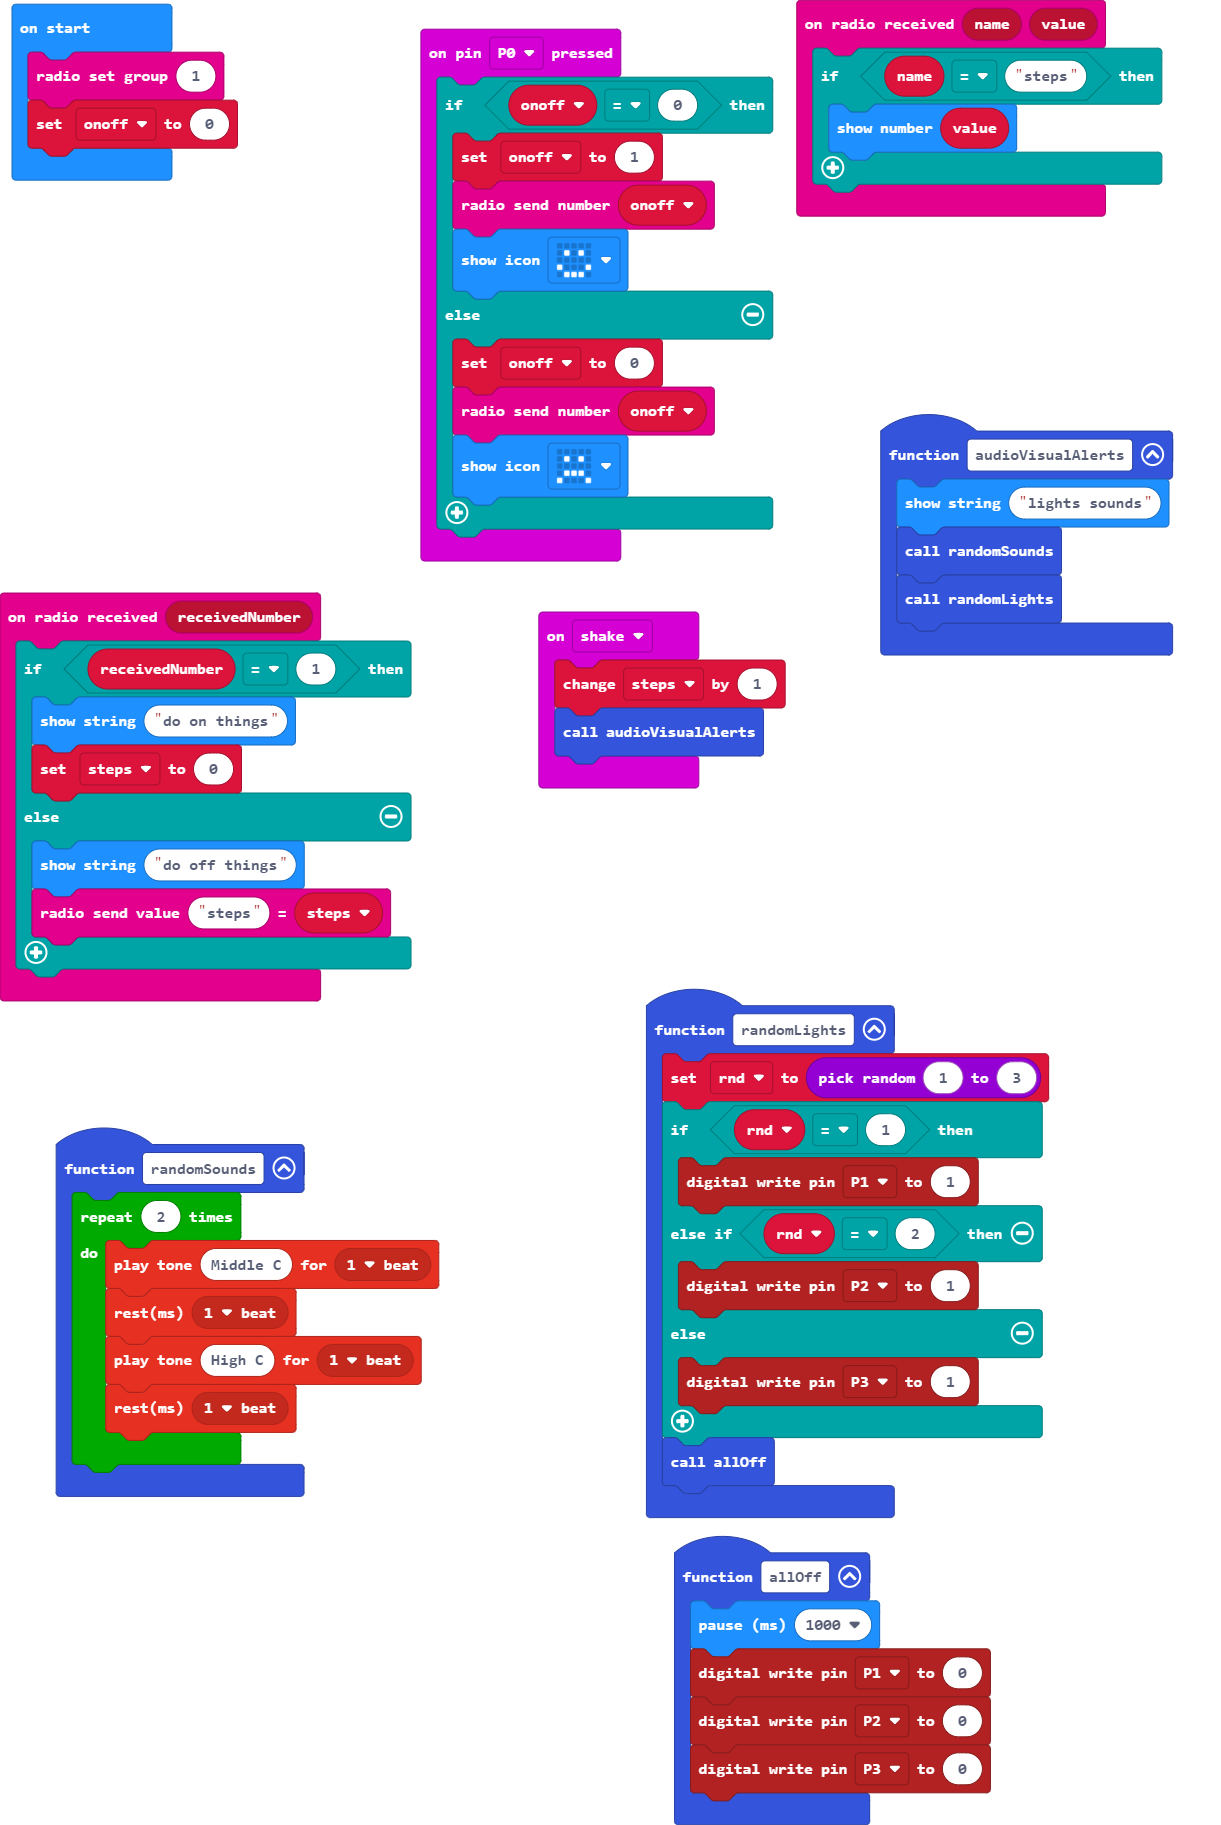
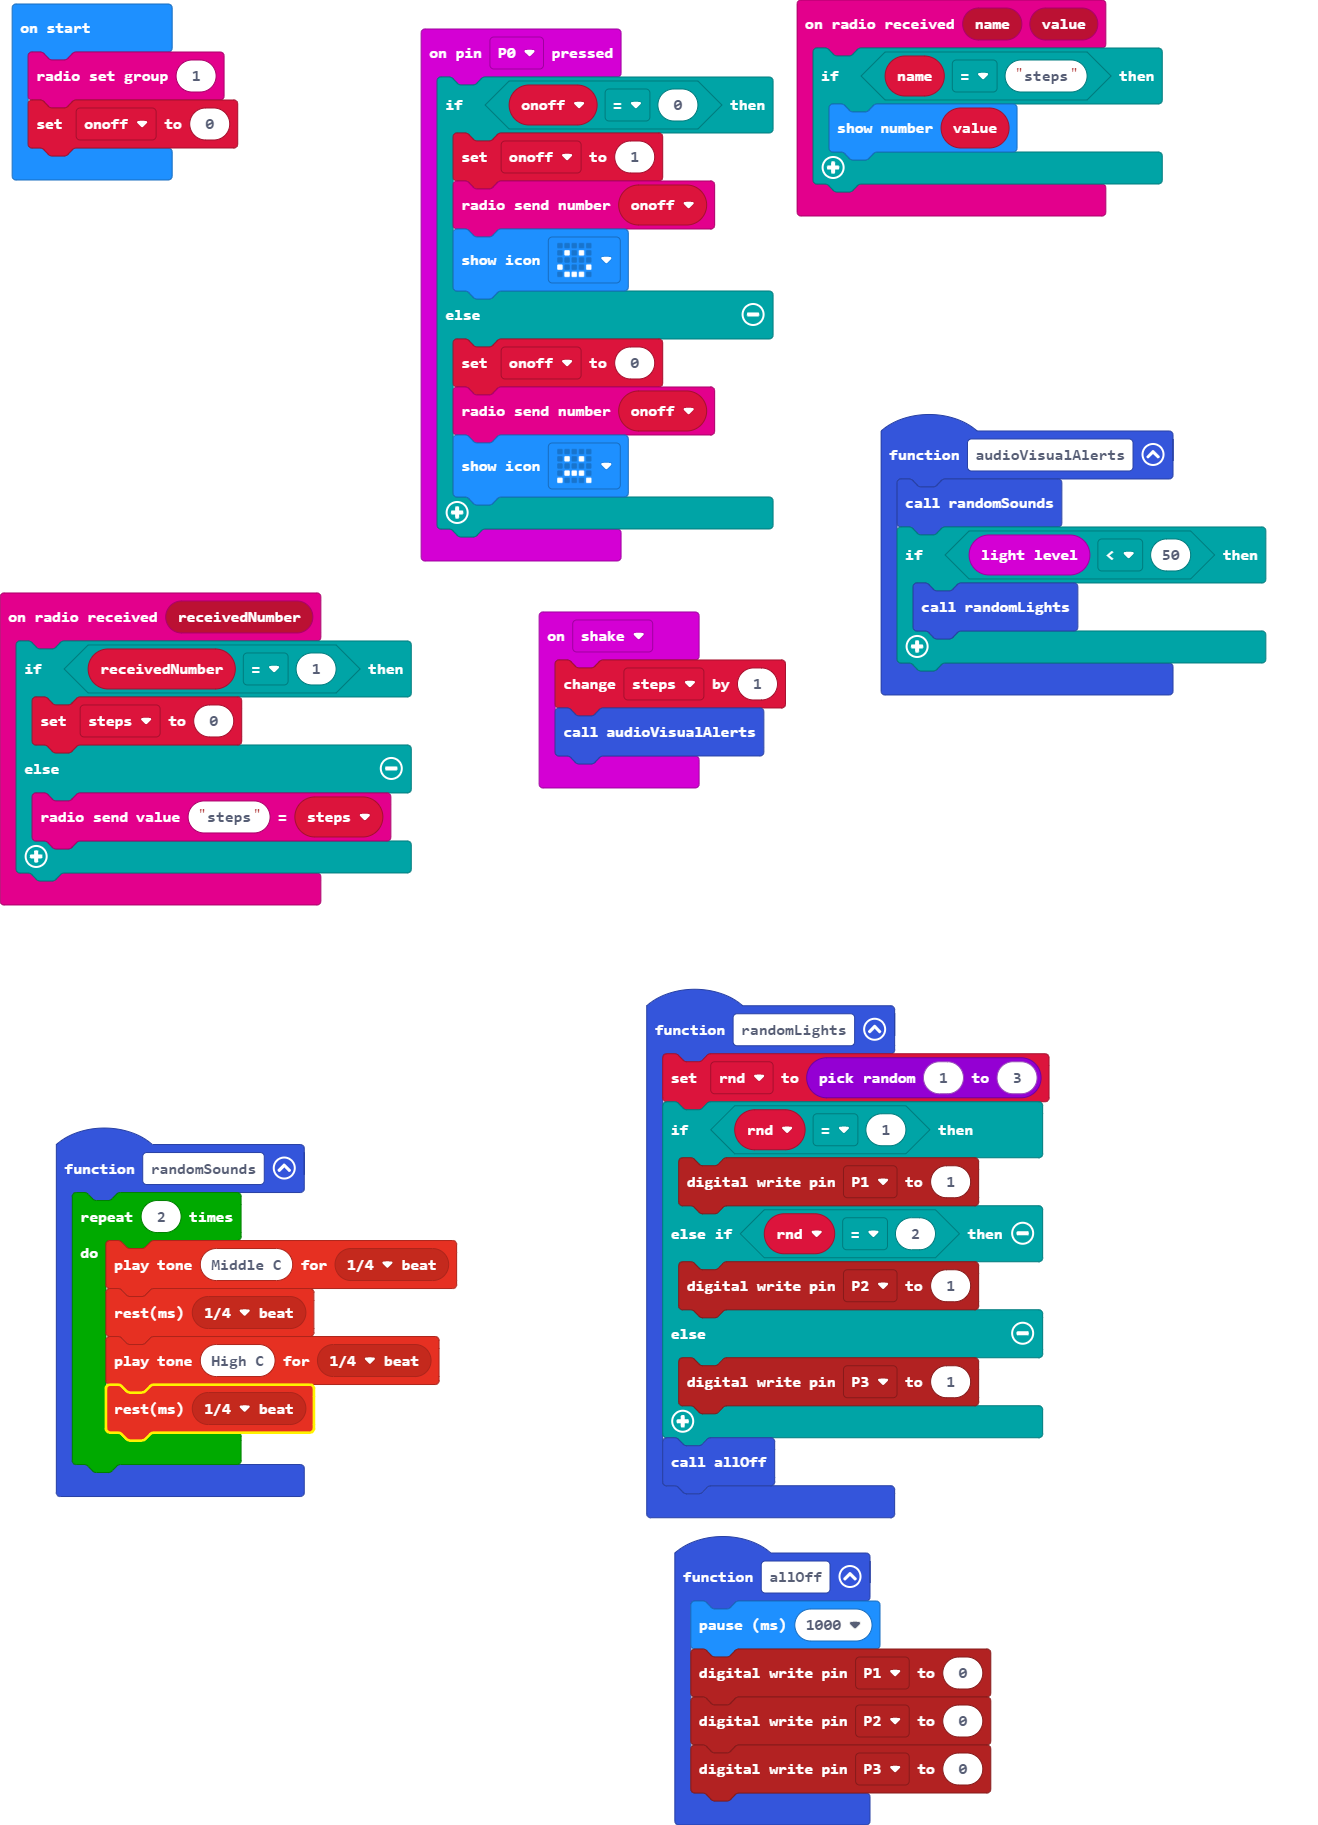
Update main.blocks, main.ts

diff --git a/main.ts b/main.ts
@@ -11,10 +11,8 @@ input.onPinPressed(TouchPin.P0, function () {
 })
 radio.onReceivedNumber(function (receivedNumber) {
     if (receivedNumber == 1) {
-        basic.showString("do on things")
         steps = 0
     } else {
-        basic.showString("do off things")
         radio.sendValue("steps", steps)
     }
 })
@@ -25,9 +23,10 @@ function allOff () {
     pins.digitalWritePin(DigitalPin.P3, 0)
 }
 function audioVisualAlerts () {
-    basic.showString("lights sounds")
     randomSounds()
-    randomLights()
+    if (input.lightLevel() < 50) {
+        randomLights()
+    }
 }
 input.onGesture(Gesture.Shake, function () {
     steps += 1
@@ -51,10 +50,10 @@ function randomLights () {
 }
 function randomSounds () {
     for (let index = 0; index < 2; index++) {
-        music.playTone(262, music.beat(BeatFraction.Whole))
-        music.rest(music.beat(BeatFraction.Whole))
-        music.playTone(523, music.beat(BeatFraction.Whole))
-        music.rest(music.beat(BeatFraction.Whole))
+        music.playTone(262, music.beat(BeatFraction.Quarter))
+        music.rest(music.beat(BeatFraction.Quarter))
+        music.playTone(523, music.beat(BeatFraction.Quarter))
+        music.rest(music.beat(BeatFraction.Quarter))
     }
 }
 let rnd = 0
